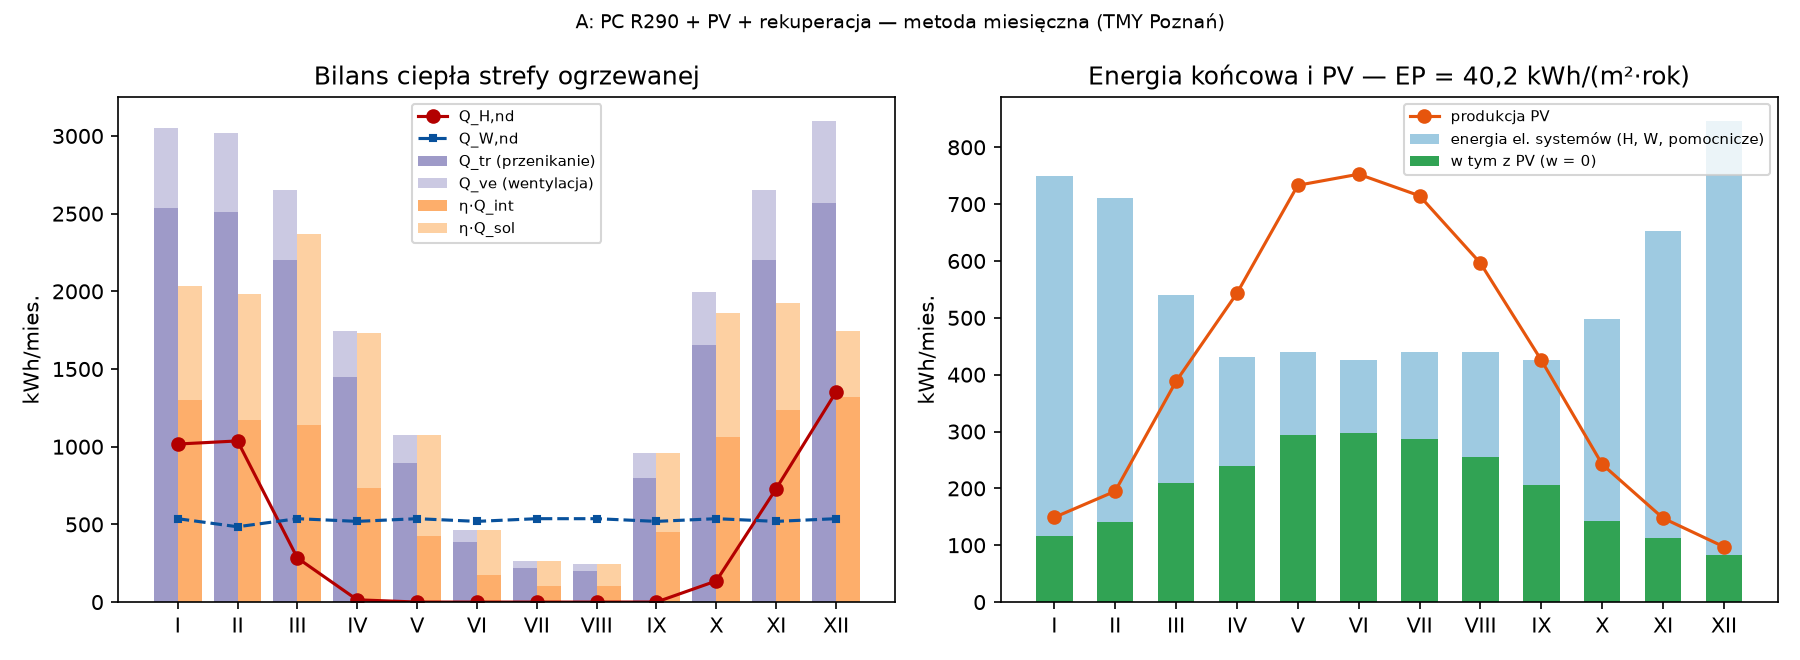
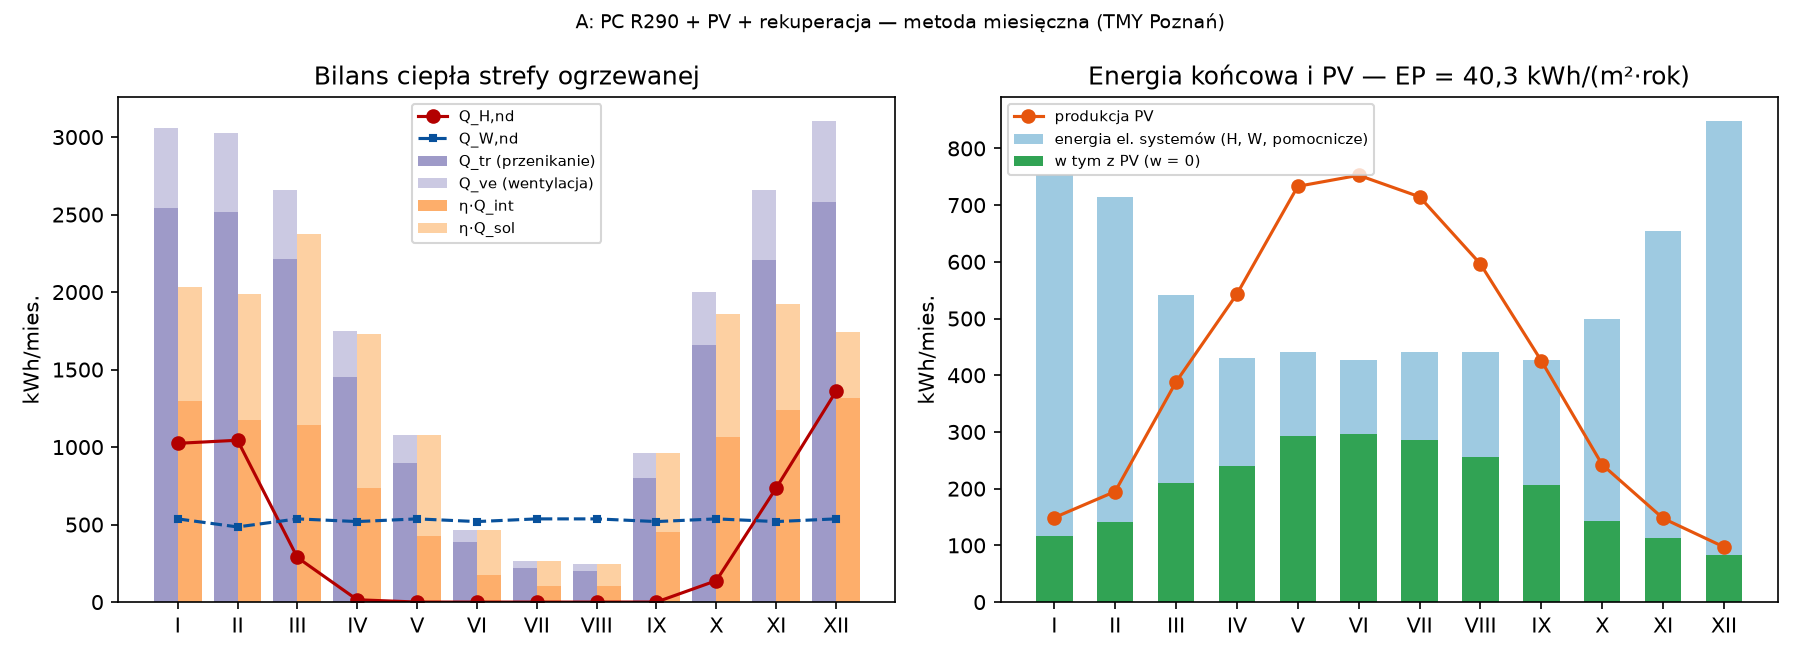
Prace robocze zespołów (autocommit)
Claude-Session: https://claude.ai/code/session_01FusXBHKDYGFEzgisqwGYyr

diff --git a/src/lamela/obliczenia/fizyka_energia.py b/src/lamela/obliczenia/fizyka_energia.py
@@ -79,7 +79,8 @@ def oblicz_wszystko(m, *, wyniki_symulacji: dict | None = None, wariant_psi: str
         if rola in ("sciana_nieogrz", "strop_nieogrz", "strop_nieogrz_gora") and e.sasiad in obc.b_u:
             b = obc.b_u[e.sasiad]
             te = list(20.0 - b * (20.0 - k.theta_e))
-            uw.append(f"strona zimna — przestrzeń nieogrzewana {e.sasiad}: θ_u,n = 20 − b_u·(20 − θ_e,n), b_u = "
+            nz = next((p.nazwa for p in m.pomieszczenia() if p.id == e.sasiad), None)
+            uw.append(f"strona zimna — przestrzeń nieogrzewana ({nz or 'pom. nieogrzewane'}): θ_u,n = 20 − b_u·(20 − θ_e,n), b_u = "
                       f"{fmt(b, 2)}; ciśnienie pary jak na zewnątrz")
         r = KD.glaser(warstwy, Rsi, Rse, theta_i=20.0, klasa=klasa_wilgotnosci, kod=kod,
                       nazwa=(m.przegroda(kod).nazwa if m.przegroda(kod) else wu.nazwa), rola=rola, theta_e=te)

diff --git a/src/lamela/obliczenia/fizyka/kondensacja.py b/src/lamela/obliczenia/fizyka/kondensacja.py
@@ -149,7 +149,7 @@ class WynikGlaser:
         if not self.kondensacja:
             return "brak kondensacji międzywarstwowej"
         if self.wysycha and self.M_a_max <= self.kryterium_kg_m2:
-            return (f"kondensacja okresowa, M_a,max = {fmt(self.M_a_max * 1000, 0)} g/m² — wysycha w okresie letnim "
+            return (f"kondensacja okresowa, M_a,max = {fmt(self.M_a_max * 1000, 3 if self.M_a_max < 0.01 else 0)} g/m² — wysycha w okresie letnim "
                     "(dopuszczalna wg WT zał. 2 pkt 2.2.5)")
         if self.wysycha:
             return (f"kondensacja okresowa M_a,max = {fmt(self.M_a_max * 1000, 0)} g/m² > "

diff --git a/projekt/09_opis_i_zalaczniki/PT_IS/PT_IS_opis.md b/projekt/09_opis_i_zalaczniki/PT_IS/PT_IS_opis.md
@@ -88,7 +88,7 @@ dotyczącymi zamierzenia budowlanego (oświadczenie projektanta).
 
 ### Źródło ciepła i instalacja ogrzewcza z automatyczną regulacją temperatury — § 23 pkt 7 lit. a RPB; W-150…W-156
 
-**Obciążenie cieplne.** Projektowe obciążenie cieplne budynku Φ_HL = **7,46 kW**
+**Obciążenie cieplne.** Projektowe obciążenie cieplne budynku Φ_HL = **7,48 kW**
 (PN-EN 12831, θ_e = −18 °C, średnia roczna θ_m,e = 7,9 °C; W-150, W-151),
 z dodatkiem na c.w.u. Φ_W = 1,25 kW. Temperatury wewnętrzne wg WT § 134 ust. 2 (model
 `pomieszczenia[].temp`); garaż nieogrzewany (θ_u = −10,6 °C).
@@ -106,7 +106,7 @@ pomieszczenie techniczne parteru.
 **Instalacja ogrzewcza.** Ogrzewanie podłogowe wodne niskotemperaturowe: θ_V = **35 °C**,
 Δθ = 5 K, rura 16×2,0 mm (PE-X/PE-RT z barierą
 antydyfuzyjną), 27 pętli w 22 pomieszczeniach (długość pętli ≤ 100 m,
-Δp pętli ≤ 25 kPa). Rozdzielacze kondygnacyjne: P0: 2 rozdzielacz, 13 pętli, 674 kg/h, Δp_max 14,3 kPa; P1: 1 rozdzielacz, 7 pętli, 297 kg/h, Δp_max 23,6 kPa; P2: 1 rozdzielacz, 7 pętli, 523 kg/h, Δp_max 16,3 kPa.
+Δp pętli ≤ 25 kPa). Rozdzielacze kondygnacyjne: P0: 2 rozdzielacz, 13 pętli, 674 kg/h, Δp_max 14,3 kPa; P1: 1 rozdzielacz, 7 pętli, 297 kg/h, Δp_max 23,6 kPa; P2: 1 rozdzielacz, 7 pętli, 560 kg/h, Δp_max 17,9 kPa.
 Uzupełniające ściany grzewcze wodne (model `instalacje.grzejniki`): 1.03 — 80 W, 1.09 — 280 W, 2.05 — 150 W, 2.07 — 180 W, 3.04 — 180 W, 3.06 — 200 W.
 Bufor szeregowy 80 dm³ (odszranianie i minimalny czas pracy sprężarki przy zamkniętych
 pętlach), naczynie wzbiorcze przeponowe c.o. 18 dm³, zawór bezpieczeństwa
@@ -227,7 +227,7 @@ jest urządzeniem wodnym) z osadnikiem i filtrem, pompą do podlewania ogrodu (p
 na podlewanie 100 %; bilans IMGW 1991–2020) i przelewem do niecki chłonnej
 (ogród deszczowy). Powierzchnia zredukowana zlewni A_red = 210,0 m²; wymagana objętość niecki
 (PANDa 2050, C = 10 lat, f_b = 1,2; W-143) V_min = **5,08 m³**. Niecka przyjęta
-(model (dzialka.yaml: retencja.rozsaczanie)): A_n = **28,0 m²**, głębokość
+— model (dzialka.yaml: retencja.rozsaczanie): A_n = **28,0 m²**, głębokość
 0,30 m, V = **8,40 m³** ≥ V_min (minimalna powierzchnia
 z doboru 19,5 m²) — czas opróżniania 1,0 h (≤ 24 h). Deszczówka — instalacja odrębna, bez połączenia z wodociągiem (W-136).
 Odwodnienia liniowe przy drzwiach bez progu i przed bramą garażu (16 korytek
@@ -278,9 +278,9 @@ godzinowe TMY Poznań (WMO 12330) do bilansu pompy ciepła i charakterystyki ene
 
 **Podstawowe wyniki** (tabela w PDF):
 
-* Projektowe obciążenie cieplne budynku Φ_HL: 7,46 kW (—; PN-EN 12831 [W-151])
+* Projektowe obciążenie cieplne budynku Φ_HL: 7,48 kW (—; PN-EN 12831 [W-151])
 * Pompa ciepła PC-R290-07 (przykład): moc P(A−7/W35): 6,2 kW (—; [DANE PRZYKŁADOWE – FIKCYJNE])
-* Pokrycie mocy przy θ_e: P_PC + P_grzałki ≥ Φ_HL + Φ_W: 10,55 kW (≥ 8,71 kW; PN-EN 12831 / VDI 4645 [W] [W-155])
+* Pokrycie mocy przy θ_e: P_PC + P_grzałki ≥ Φ_HL + Φ_W: 10,55 kW (≥ 8,73 kW; PN-EN 12831 / VDI 4645 [W] [W-155])
 * Punkt biwalentny: −9,6 °C (≤ −7,0 °C; VDI 4645 / praktyka [ZAŁ] [W-155])
 * Udział grzałki w pokryciu Q_H: 0,0004  (≤ 0,0500; [ZAŁ] [W-155])
 * Sezonowa efektywność η_s (35 °C): 1,85  (≥ 1,25; rozp. (UE) 813/2013 zał. II [W-155])
@@ -401,9 +401,9 @@ Moc przyłączeniowa 27 kW, zabezpieczenie przedlicznikowe 40 A — PT-4 IE. Bud
 | POD-0 | podloga grunt | 0,11 | 0,30 | tak |
 | SWG | sciana nieogrz | 0,27 | 0,30 | tak |
 | SZ1 | sciana zewn | 0,17 | 0,20 | tak |
-| SZ2 | sciana zewn | 0,17 | 0,20 | tak |
-| SZL | sciana zewn | 0,10 | 0,20 | tak |
-| ST2Z | strop zewn | 0,13 | 0,15 | tak |
+| SZ2 | sciana zewn | 0,18 | 0,20 | tak |
+| SZL | sciana zewn | 0,11 | 0,20 | tak |
+| ST2Z | strop zewn | 0,14 | 0,15 | tak |
 | BC1 | okno (okno) | 0,78 | 0,90 | tak |
 | DG1 | drzwi (drzwi) | 1,10 | 1,30 | tak |
 | DZ1 | drzwi (drzwi_zewn) | 0,90 | 1,30 | tak |
@@ -454,17 +454,17 @@ Zasobnik c.w.u. w EP — z projektu (moduł wody): V = 400 dm³, strata postojow
 
 | Wariant | EU | EK | EP | EP_max | U_OZE [%] | E_CO2 [t/rok] | EP ≤ EP_max |
 |---|---|---|---|---|---|---|---|
-| A: PC R290 + PV + rekuperacja | 41,51 | 25,17 | 40,24 | 70,00 | 73,96 | 2,34 | tak |
-| A0: PC R290 + rekuperacja, bez PV | 41,51 | 25,17 | 62,93 | 70,00 | 58,27 | 3,65 | tak |
-| B: kocioł gazowy kondensacyjny + rekuperacja | 41,51 | 70,98 | 88,72 | 70,00 | 0,00 | 4,47 | NIE |
-| C: PC — wartości domyślne metodologii, bez PV | 41,51 | 32,81 | 82,02 | 70,00 | 47,88 | 4,76 | NIE |
-| A (n50 = 4 h⁻¹ — brak próby szczelności) | 55,52 | 29,25 | 49,69 | 70,00 | 74,09 | 2,88 | tak |
+| A: PC R290 + PV + rekuperacja | 41,64 | 25,21 | 40,32 | 70,00 | 73,96 | 2,34 | tak |
+| A0: PC R290 + rekuperacja, bez PV | 41,64 | 25,21 | 63,02 | 70,00 | 58,30 | 3,66 | tak |
+| B: kocioł gazowy kondensacyjny + rekuperacja | 41,64 | 71,13 | 88,90 | 70,00 | 0,00 | 4,47 | NIE |
+| C: PC — wartości domyślne metodologii, bez PV | 41,64 | 32,86 | 82,15 | 70,00 | 47,91 | 4,77 | NIE |
+| A (n50 = 4 h⁻¹ — brak próby szczelności) | 55,67 | 29,29 | 49,79 | 70,00 | 74,09 | 2,89 | tak |
 
 A — wariant projektowy (z PV); A0 — ten sam budynek i instalacje bez PV; B, C — analiza alternatyw (RPB § 20 ust. 1 pkt 10, PAB); ostatnie wiersze — wrażliwość (szczelność, Ψ).
 
 *Źródło: lamela.obliczenia.energia.ep (metodologia Dz.U. 2015 poz. 376 ze zm.)*
 
-> Wariant projektowy A: EP = **40,2** kWh/(m²·rok) ≤ EP_max = 70,0 — wymaganie spełnione. Wariant A0 bez PV: EP = **62,9** kWh/(m²·rok) ≤ EP_max — wymaganie spełnione także bez instalacji PV.
+> Wariant projektowy A: EP = **40,3** kWh/(m²·rok) ≤ EP_max = 70,0 — wymaganie spełnione. Wariant A0 bez PV: EP = **63,0** kWh/(m²·rok) ≤ EP_max — wymaganie spełnione także bez instalacji PV.
 
 ### Obliczenia: charakterystyka energetyczna — wariant A — W-240…W-242
 
@@ -506,7 +506,7 @@ ponownego przeliczenia EP, punktu biwalentnego i hałasu (generator tomu przelic
 
 | Urządzenie | Parametry wymagane | Podstawa |
 |---|---|---|
-| Pompa ciepła powietrze–woda, monoblok | czynnik naturalny R290 (GWP < 150); P(A−15/W35) ≥ 5,0 kW (jak urządzenie przyjęte w obliczeniach) i pokrycie Φ_HL + Φ_W = 8,71 kW przy θ_e z grzałką ≤ 6 kW; SCOP₃₅ ≥ 4,7; η_s ≥ 125 %; L_WA ≤ 57 dB (tryb nocny niżej); regulacja pogodowa, sterowanie zależne od zapotrzebowania | W-155, W-156, W-024; (UE) 2024/573, 813/2013 |
+| Pompa ciepła powietrze–woda, monoblok | czynnik naturalny R290 (GWP < 150); P(A−15/W35) ≥ 5,0 kW (jak urządzenie przyjęte w obliczeniach) i pokrycie Φ_HL + Φ_W = 8,73 kW przy θ_e z grzałką ≤ 6 kW; SCOP₃₅ ≥ 4,7; η_s ≥ 125 %; L_WA ≤ 57 dB (tryb nocny niżej); regulacja pogodowa, sterowanie zależne od zapotrzebowania | W-155, W-156, W-024; (UE) 2024/573, 813/2013 |
 | Zasobnik c.w.u. z wężownicą | V ≥ 400 dm³, wężownica ≥ 1,8 m² (dla PC), strata postojowa ≤ 75 W (wartość przyjęta w EP), grzałka do dezynfekcji, grupa bezpieczeństwa, izolacja fabryczna | W-133, W-134; PN-EN 16147+A1:2023-06 |
 | Bufor c.o. (szeregowy) | V ≥ 80 dm³, izolowany | obliczenia ogrzewania |
 | Naczynia wzbiorcze przeponowe | c.o. ≥ 18 dm³ (p₀ 0,83 bar); c.w.u. ≥ 50 dm³ (p₀ 3,8 bar), przepływowe | PN-B-02414:1999 (powołana w WT) [W-154] |
